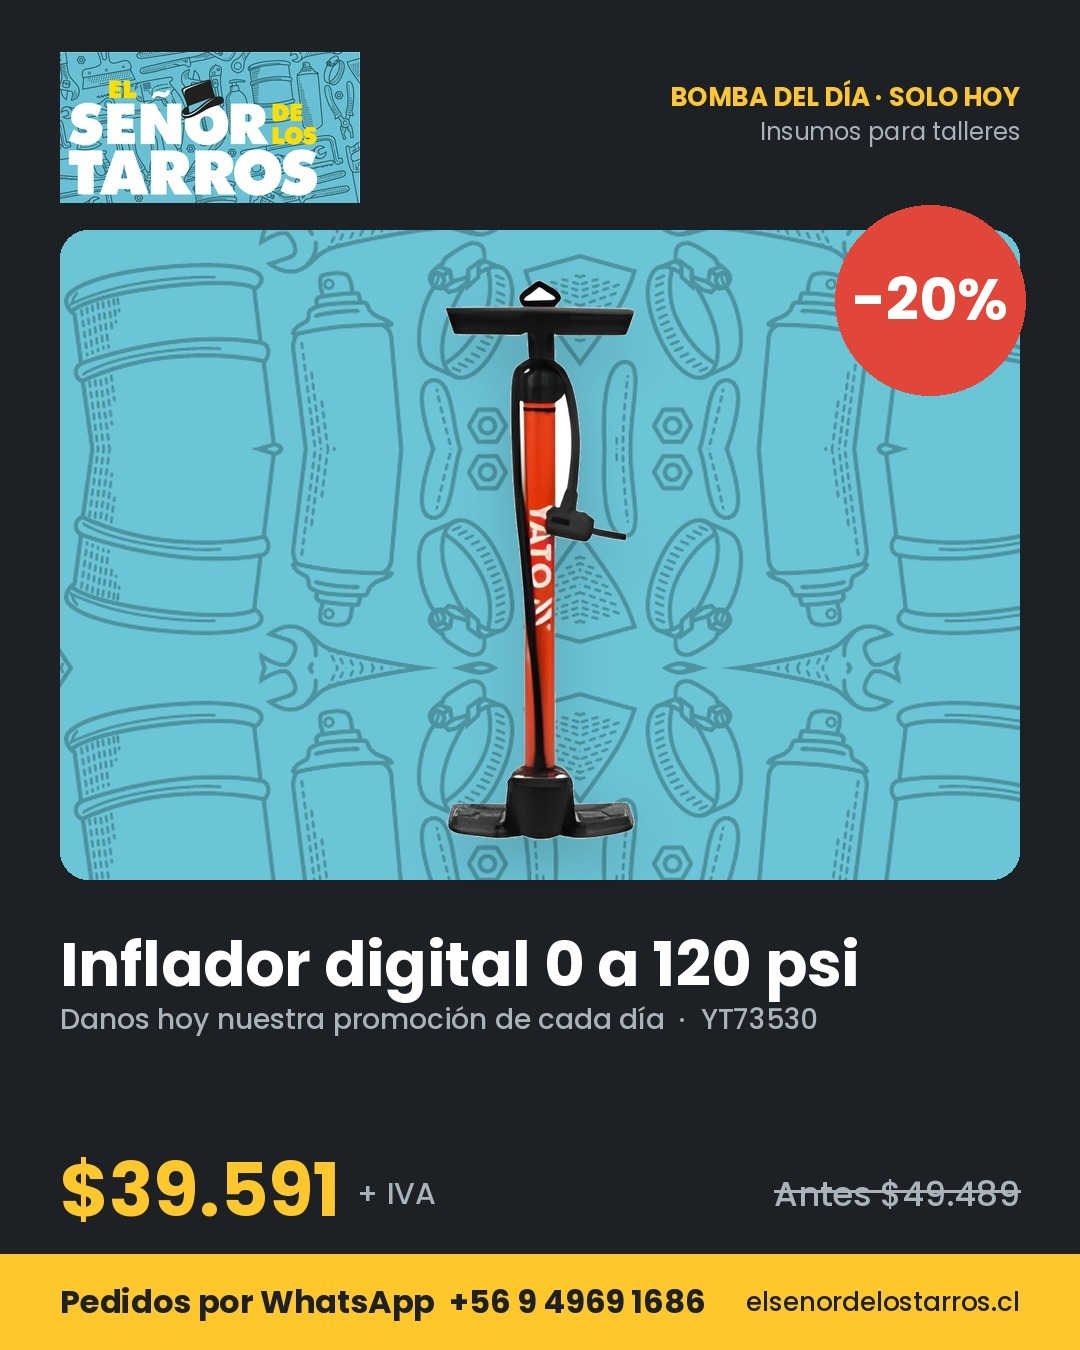
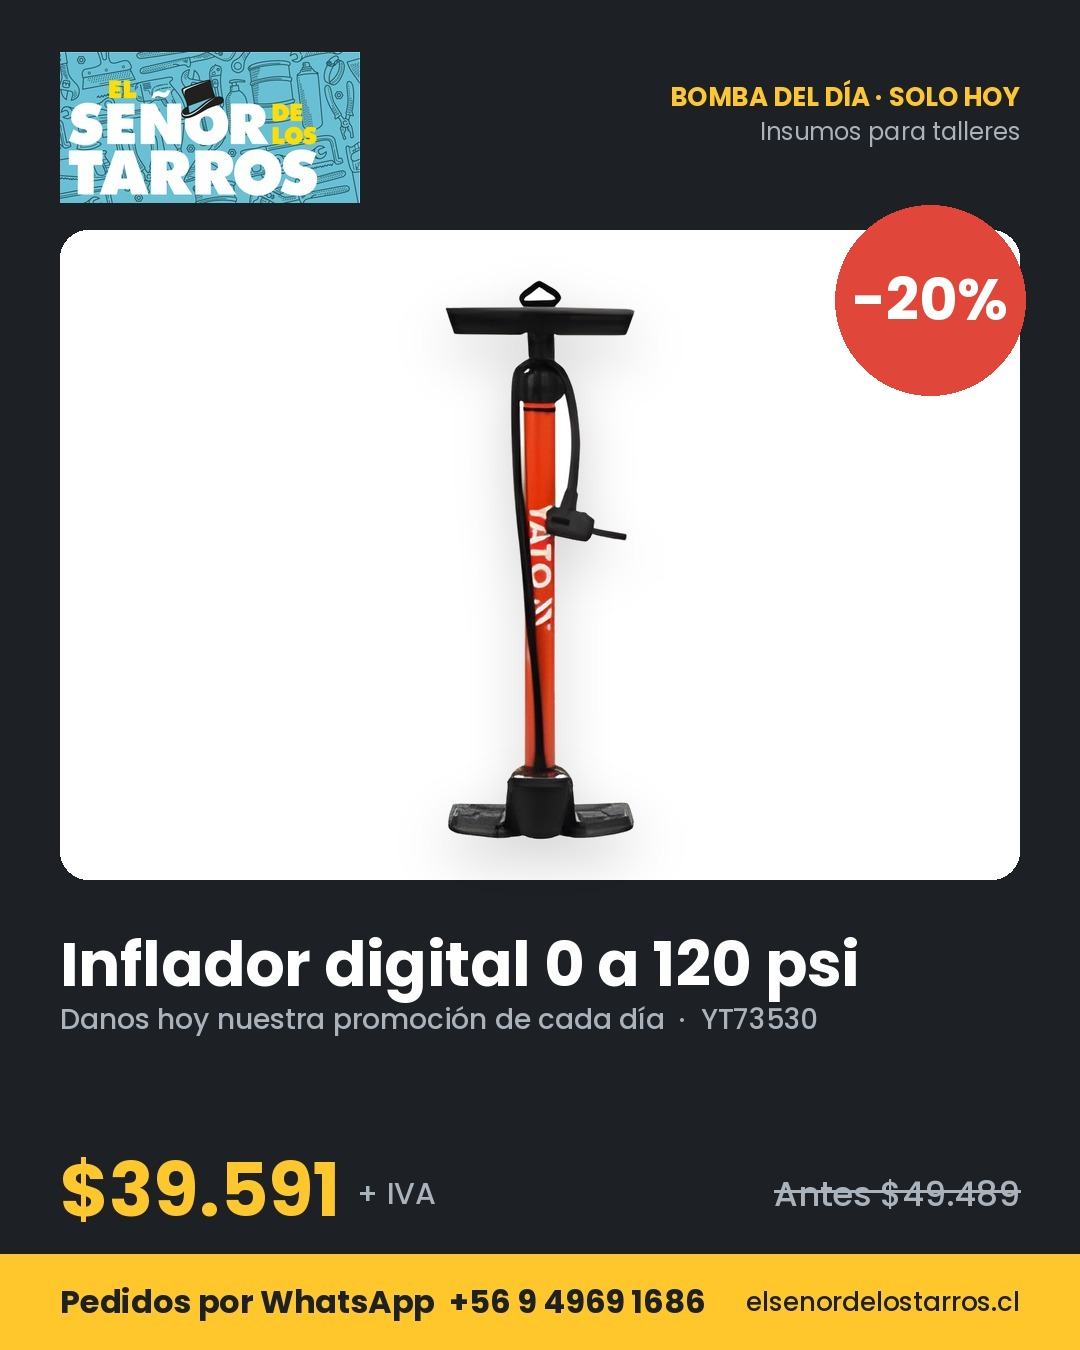
Instagram: fondo blanco por defecto en el panel del producto; 32-34 regenerados
Claude-Session: https://claude.ai/code/session_01UbC1VrCkLg6oZvPvcmR3q3

diff --git a/trabajo/scripts/insta.py b/trabajo/scripts/insta.py
@@ -17,6 +17,7 @@ OUT = "/mnt/user-data/outputs/instagram"
 W, H = 1080, 1350
 CARBON = (29, 33, 38)
 TURQ = (111, 200, 218)
+FONDO_BLANCO = True  # acordado: producto sobre fondo blanco (más profesional)
 TURQ_HONDO = (74, 160, 178)
 AMAR = (255, 199, 44)
 BLANCO = (255, 255, 255)
@@ -122,7 +123,7 @@ def publicacion(nombre_archivo, productos, etiqueta, titulo, detalle, precio, su
 
     # panel turquesa con el producto
     py0, py1 = 230, 880
-    panel = patron((W - 120, py1 - py0))
+    panel = Image.new("RGB", (W - 120, py1 - py0), (255, 255, 255)) if FONDO_BLANCO else patron((W - 120, py1 - py0))
     m = Image.new("L", panel.size, 0)
     ImageDraw.Draw(m).rounded_rectangle([0, 0, panel.width - 1, panel.height - 1], 28, fill=255)
     img.paste(panel, (60, py0), m)
